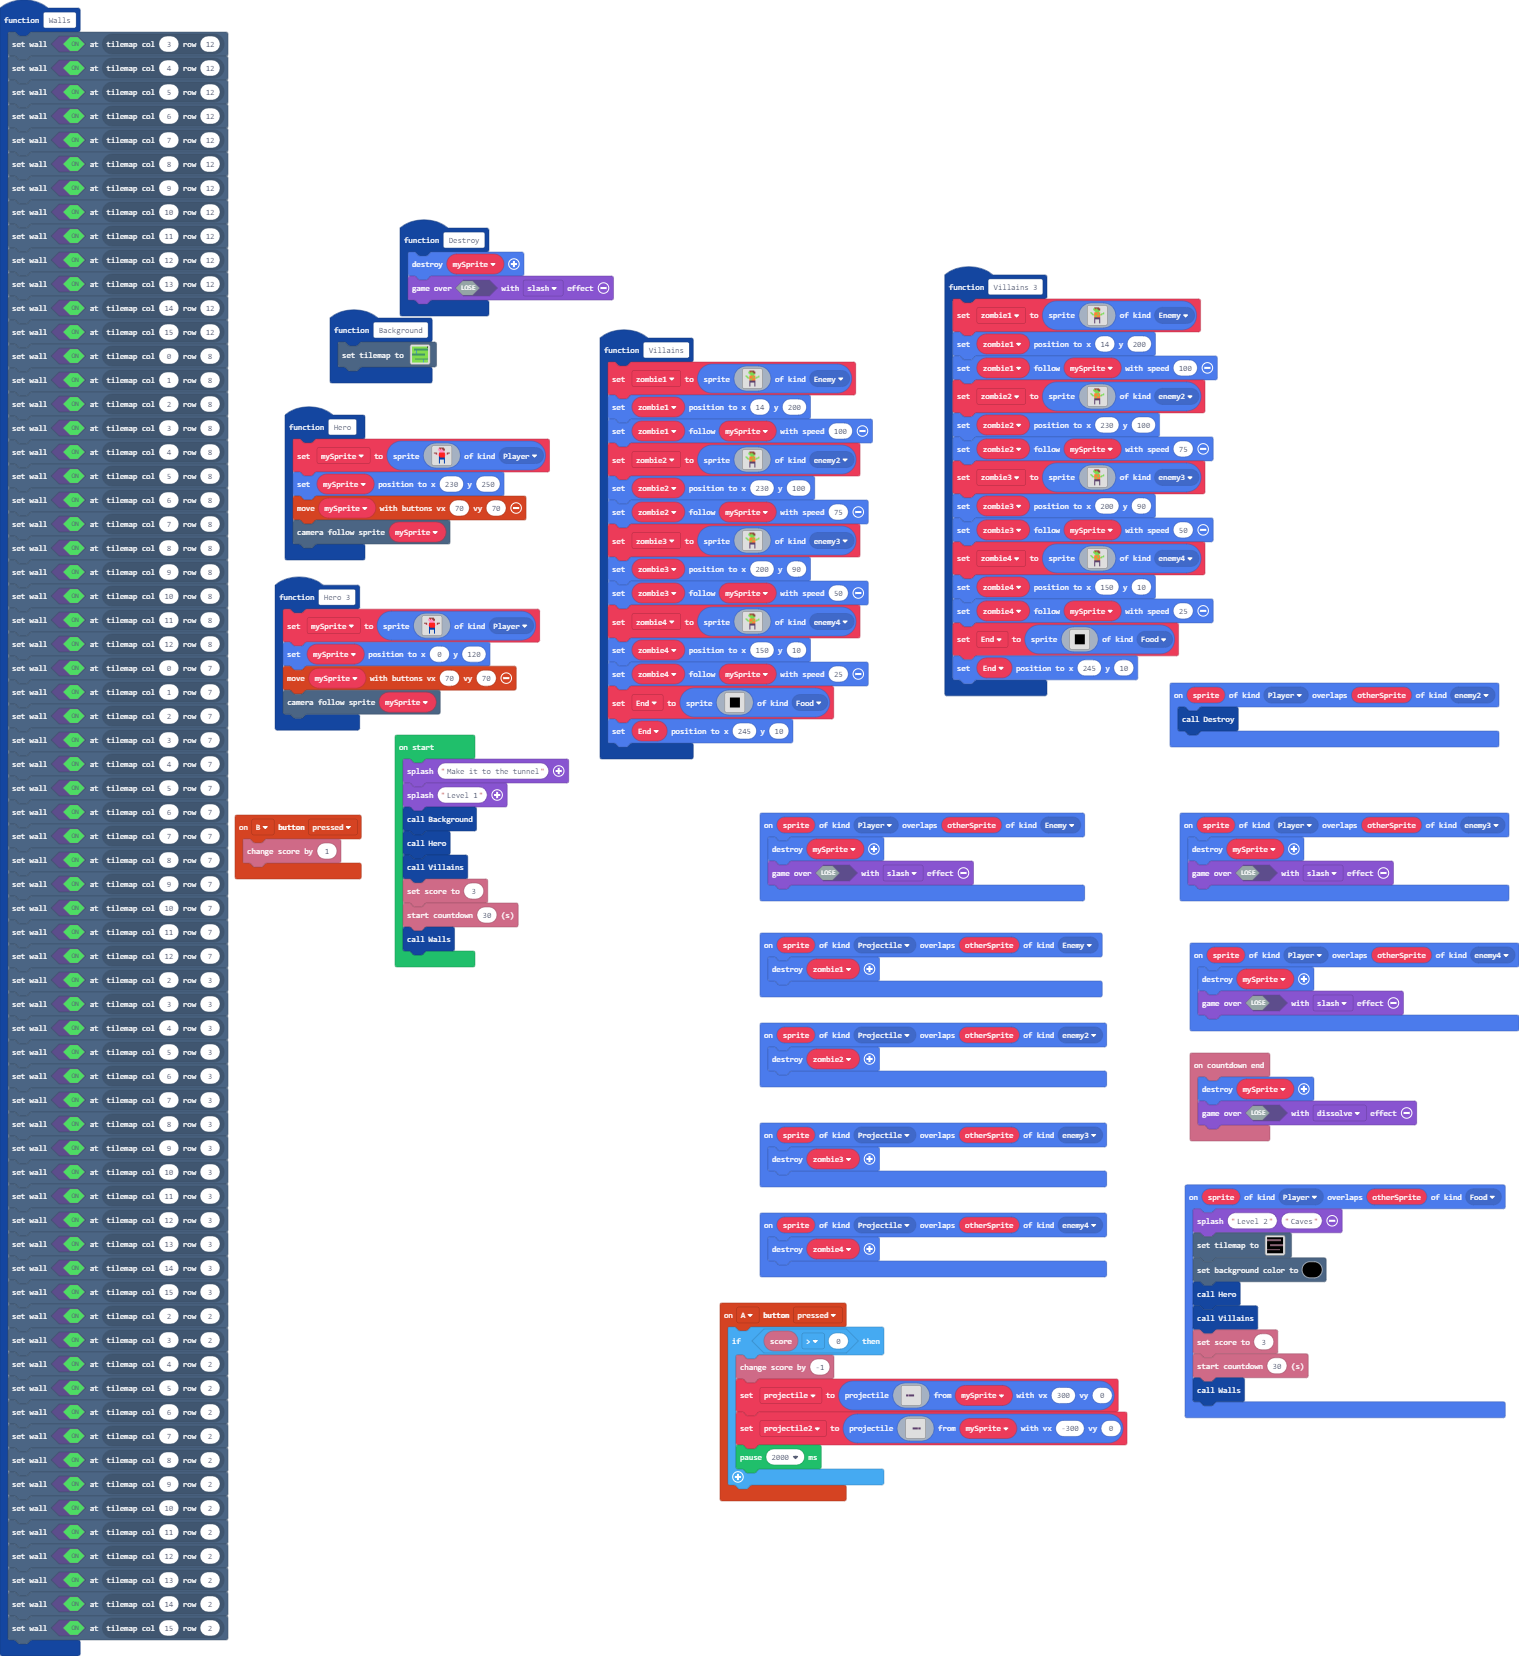
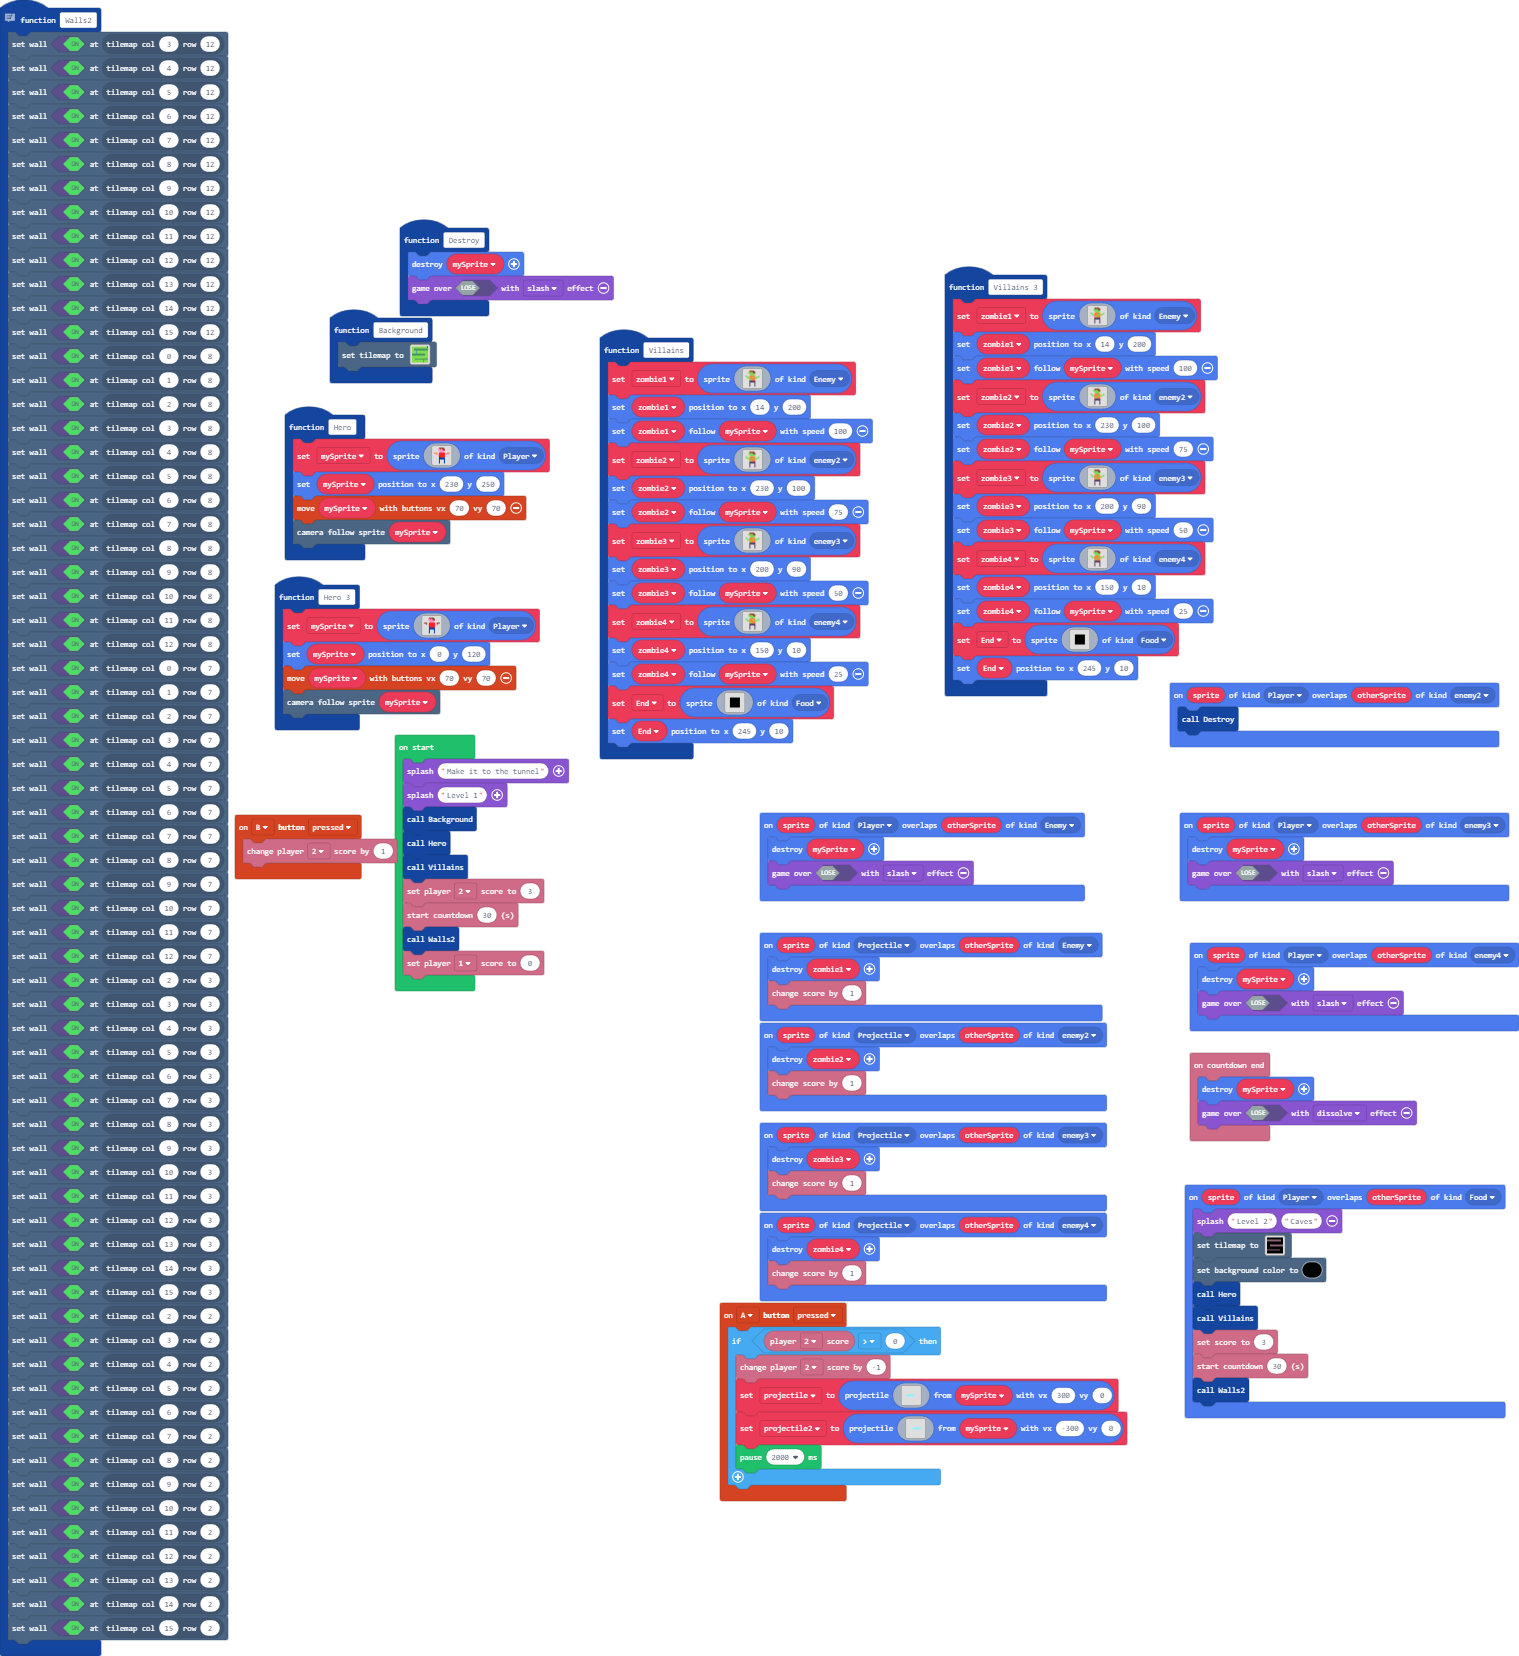
Update main.blocks, main.ts

diff --git a/main.ts b/main.ts
@@ -33,7 +33,7 @@ function Destroy () {
     game.over(false, effects.slash)
 }
 controller.B.onEvent(ControllerButtonEvent.Pressed, function () {
-    info.changeScoreBy(1)
+    info.player2.changeScoreBy(1)
 })
 function Villains () {
     zombie1 = sprites.create(img`
@@ -290,19 +290,22 @@ sprites.onOverlap(SpriteKind.Player, SpriteKind.Food, function (sprite, otherSpr
     Villains()
     info.setScore(3)
     info.startCountdown(30)
-    Walls()
+    Walls2()
 })
 sprites.onOverlap(SpriteKind.Projectile, SpriteKind.enemy3, function (sprite, otherSprite) {
     zombie3.destroy()
+    info.changeScoreBy(1)
 })
 sprites.onOverlap(SpriteKind.Projectile, SpriteKind.enemy2, function (sprite, otherSprite) {
     zombie2.destroy()
+    info.changeScoreBy(1)
 })
 sprites.onOverlap(SpriteKind.Player, SpriteKind.enemy2, function (sprite, otherSprite) {
     Destroy()
 })
 sprites.onOverlap(SpriteKind.Projectile, SpriteKind.Enemy, function (sprite, otherSprite) {
     zombie1.destroy()
+    info.changeScoreBy(1)
 })
 function Background () {
     tiles.setTilemap(tiles.createTilemap(
@@ -330,8 +333,8 @@ function Background () {
         ))
 }
 controller.A.onEvent(ControllerButtonEvent.Pressed, function () {
-    if (info.score() > 0) {
-        info.changeScoreBy(-1)
+    if (info.player2.score() > 0) {
+        info.player2.changeScoreBy(-1)
         projectile = sprites.createProjectileFromSprite(img`
 . . . . . . . . . . . . . . . . 
 . . . . . . . . . . . . . . . . 
@@ -340,8 +343,8 @@ controller.A.onEvent(ControllerButtonEvent.Pressed, function () {
 . . . . . . . . . . . . . . . . 
 . . . . . . . . . . . . . . . . 
 . . . . . . . . . . . . . . . . 
-. . . c c b c c c c c . . . . . 
-. . . c c b c c c c c . . . . . 
+. . . 9 9 9 9 9 9 9 9 . . . . . 
+. . . 9 9 9 9 9 9 9 9 . . . . . 
 . . . . . . . . . . . . . . . . 
 . . . . . . . . . . . . . . . . 
 . . . . . . . . . . . . . . . . 
@@ -358,8 +361,8 @@ controller.A.onEvent(ControllerButtonEvent.Pressed, function () {
 . . . . . . . . . . . . . . . . 
 . . . . . . . . . . . . . . . . 
 . . . . . . . . . . . . . . . . 
-. . . . . c c c c c b c c . . . 
-. . . . . c c c c c b c c . . . 
+. . . . . 9 9 9 9 9 9 9 9 . . . 
+. . . . . 9 9 9 9 9 9 9 9 . . . 
 . . . . . . . . . . . . . . . . 
 . . . . . . . . . . . . . . . . 
 . . . . . . . . . . . . . . . . 
@@ -379,7 +382,8 @@ sprites.onOverlap(SpriteKind.Player, SpriteKind.enemy3, function (sprite, otherS
     mySprite.destroy()
     game.over(false, effects.slash)
 })
-function Walls () {
+// Makes a wall
+function Walls2 () {
     tiles.setWallAt(tiles.getTileLocation(3, 12), true)
     tiles.setWallAt(tiles.getTileLocation(4, 12), true)
     tiles.setWallAt(tiles.getTileLocation(5, 12), true)
@@ -455,8 +459,8 @@ function Hero () {
 . . . . 3 3 3 3 3 e e . . . . . 
 . . . . . 3 3 3 3 3 3 . . . . . 
 . . . . . . 3 3 3 3 . . . . . . 
-e e e d . 2 2 2 2 2 2 . d e e e 
-. 3 e 3 . 2 2 2 2 2 2 . 3 e 3 . 
+4 4 4 d . 2 2 2 2 2 2 . d 4 4 4 
+. 3 4 3 . 2 2 2 2 2 2 . 3 4 3 . 
 . . . . 3 2 2 2 2 2 2 3 . . . . 
 . . . . . 2 2 2 2 2 2 . . . . . 
 . . . . . 8 2 2 2 2 2 . . . . . 
@@ -477,6 +481,7 @@ info.onCountdownEnd(function () {
 })
 sprites.onOverlap(SpriteKind.Projectile, SpriteKind.enemy4, function (sprite, otherSprite) {
     zombie4.destroy()
+    info.changeScoreBy(1)
 })
 let projectile2: Sprite = null
 let projectile: Sprite = null
@@ -491,6 +496,7 @@ game.splash("Level 1")
 Background()
 Hero()
 Villains()
-info.setScore(3)
+info.player2.setScore(3)
 info.startCountdown(30)
-Walls()
+Walls2()
+info.player1.setScore(0)
